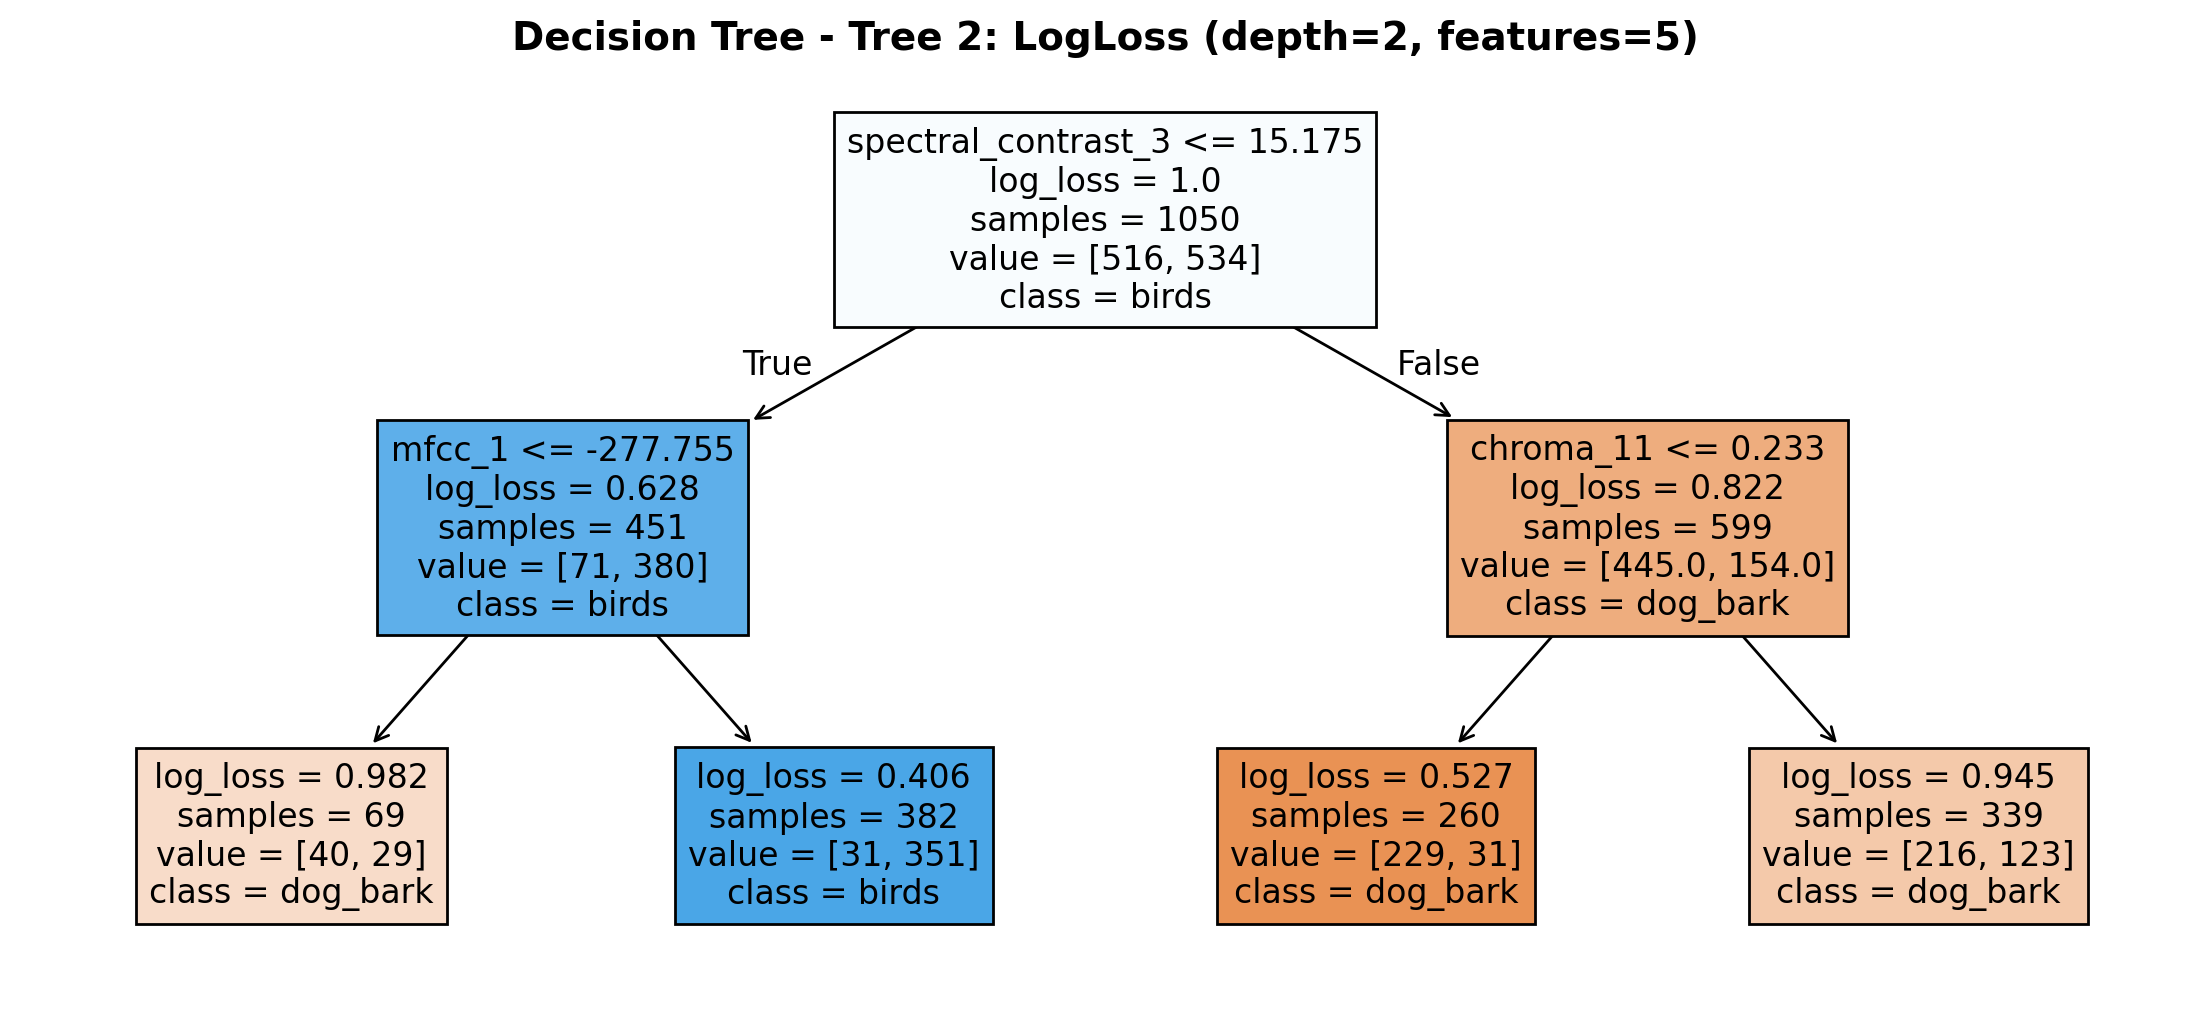
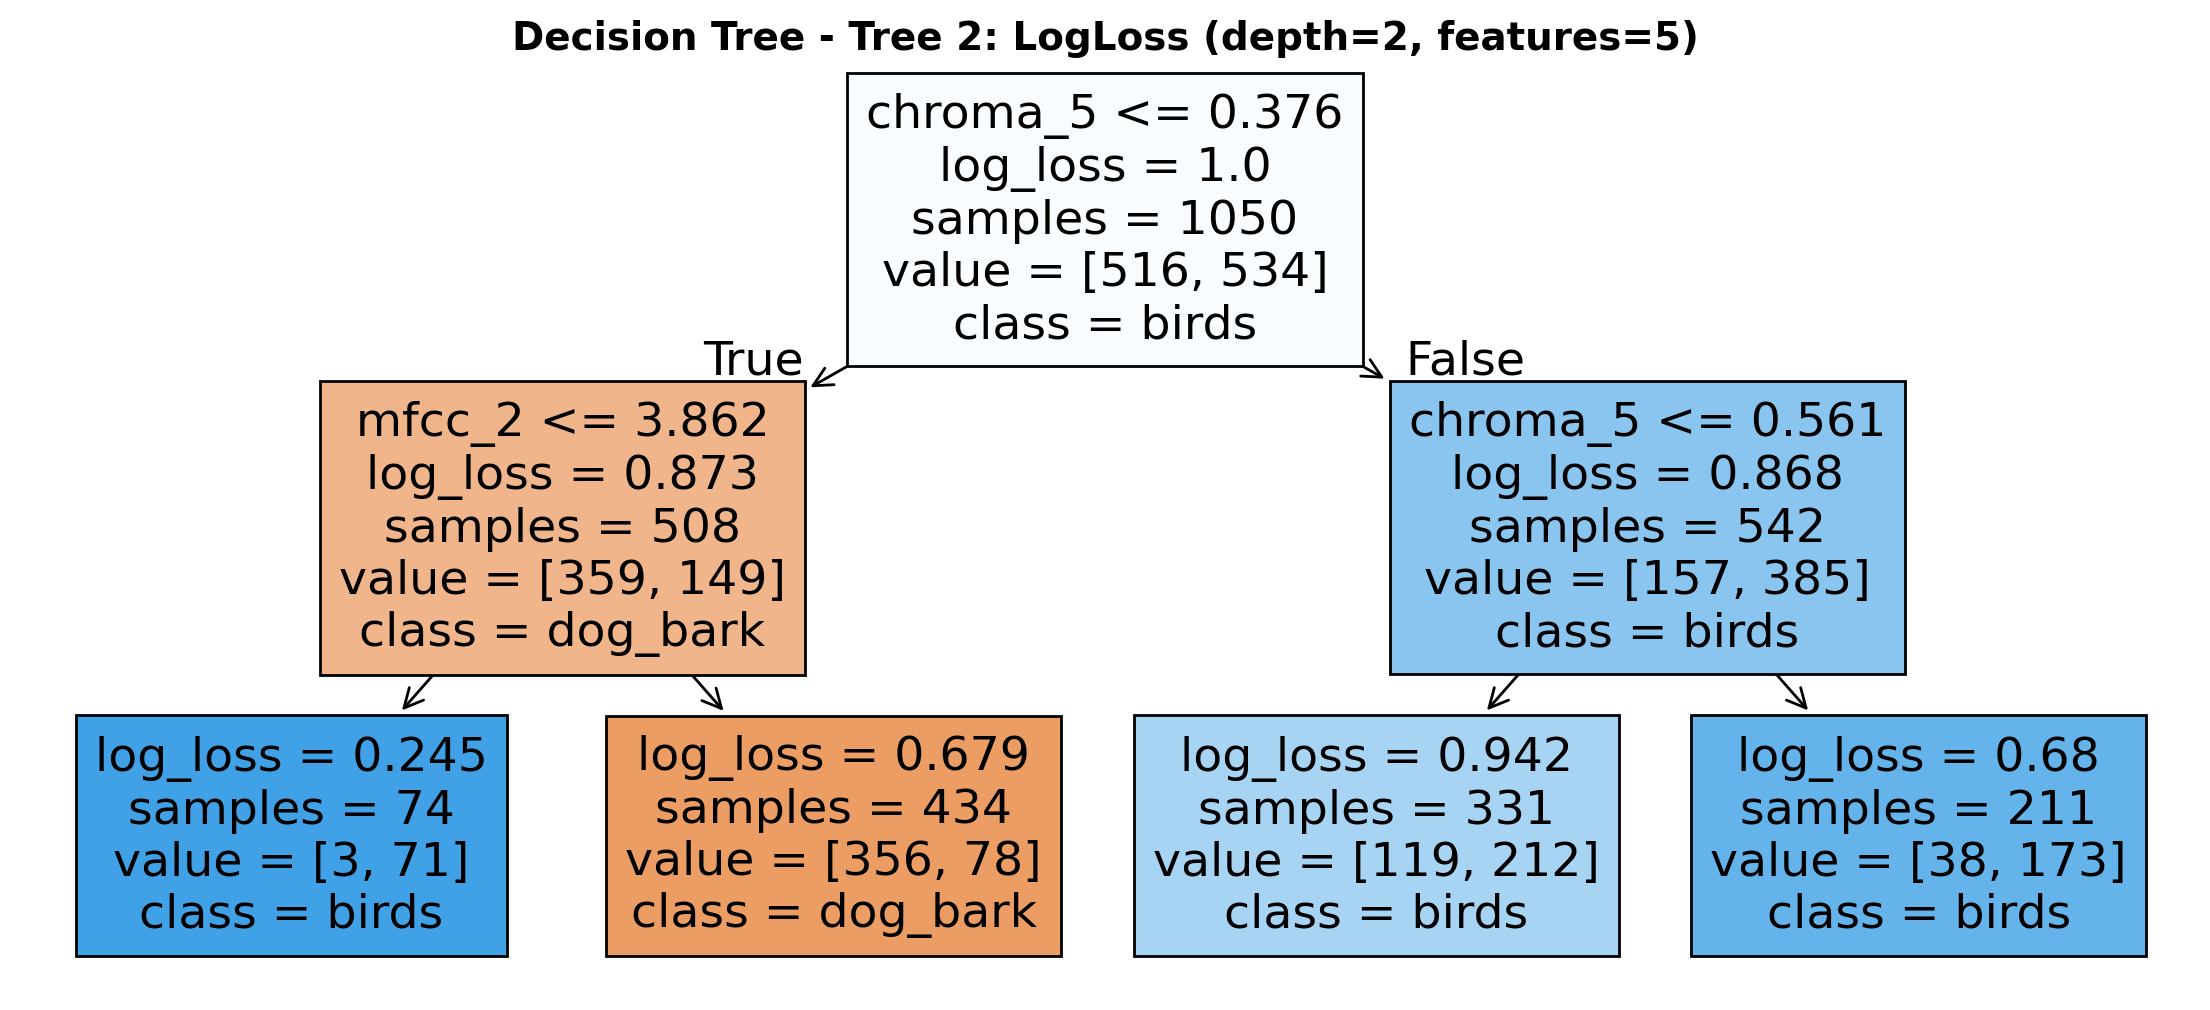
added script for decision trees classification

diff --git a/scripts/regression.py b/scripts/regression.py
@@ -1,0 +1,75 @@
+import pandas as pd
+import numpy as np
+from sklearn.naive_bayes import GaussianNB, MultinomialNB, BernoulliNB
+from sklearn.model_selection import train_test_split
+from sklearn.preprocessing import StandardScaler, MinMaxScaler
+from sklearn.metrics import classification_report, confusion_matrix, ConfusionMatrixDisplay, roc_curve, auc
+import matplotlib.pyplot as plt
+import seaborn as sns
+import os
+
+def get_data():
+    """
+    Function to load, label, and prepare audio feature data for classification.
+
+    This function:
+    - Loads audio feature CSVs for selected sound categories.
+    - Combines them into a single DataFrame.
+    - Maps original categories into two classes: 'music' (1) and 'outdoor' (0).
+    - Shuffles the data and separates features (X) and target labels (y).
+
+    Returns:
+    - X (pd.DataFrame): Feature set excluding the label column.
+    - y (pd.Series): Binary target labels (1 for music, 0 for outdoor).
+    """
+    
+    file_path="../audiofiles_processed_features_CSVs"
+    categories=["piano","guitar","drums","thunder_sounds","rain_sounds","wind_sounds"] #take music sounds and outdoor sounds
+    df=pd.concat([pd.read_csv(f"{file_path}/{category}_features.csv") for category in categories])
+    
+    df=df.sample(frac=1,random_state=17).reset_index(drop=True)
+    df.drop("filename",axis=1,inplace=True)
+    # convert them to two categories, music and outdoor
+    df["category"]=df["category"].apply(lambda x:"music" if x in ("guitar","piano","drums") else "outdoor")
+    # encode music as 1 and outdoor as 0
+    df["category"]=df["category"].apply(lambda x: 0 if x=="outdoor" else 1)
+
+    y=df["category"]
+    X=df.drop("category",axis=1)
+
+    return X,y
+
+def perform_multinomial_nb():
+    """
+    Function to train and evaluate a Multinomial Naive Bayes classifier on discretized audio features.
+
+    This function:
+    - Loads and prepares the dataset using `get_data`.
+    - Scales features to [0, 1] using MinMaxScaler.
+    - Discretizes the scaled features into integers (0–100).
+    - Trains a MultinomialNB model on the training set.
+    - Evaluates model performance and visualizes results.
+
+    Returns:
+    - None (Saves confusion matrix, classification heatmap, and ROC curve as PNG files).
+    """
+    
+    X,y=get_data()
+    X_train,X_test,y_train,y_test=train_test_split(X,y,test_size=0.3,random_state=17)
+
+    # to discretize we will first min max scale to make the numbers betwen 0 to 1, then multiply them by 100 and convert to integers
+    scaler=MinMaxScaler() 
+    X_train_scaled=scaler.fit_transform(X_train)
+    X_test_scaled=scaler.transform(X_test)
+
+    X_train_discritized=np.round(X_train_scaled*100).astype(int) 
+    X_test_discritized=np.round(X_test_scaled*100).astype(int)
+
+    model = MultinomialNB()
+    model.fit(X_train_discritized, y_train)
+    y_pred = model.predict(X_test_discritized)
+    
+    # results_visualization(X_test_discritized,y_test,y_pred,model,"multinomial_nb")
+
+    print("Completed Multinomial Naive Bayes Classification")
+

diff --git a/scripts/decision_tree.py b/scripts/decision_tree.py
@@ -125,12 +125,12 @@ def perform_decision_tree_classification():
     Returns:
     - None (Prints progress and saves all evaluation plots for each model)
     """
-    
+
     X, y=get_data()
     X_train, X_test, y_train, y_test=train_test_split(X, y, test_size=0.3, random_state=18)
 
     features=list(X.columns)
-    random.seed(42)
+    random.seed(17)
     random.shuffle(features)
 
     #Tree 1: Gini (depth=3, features=10)")
